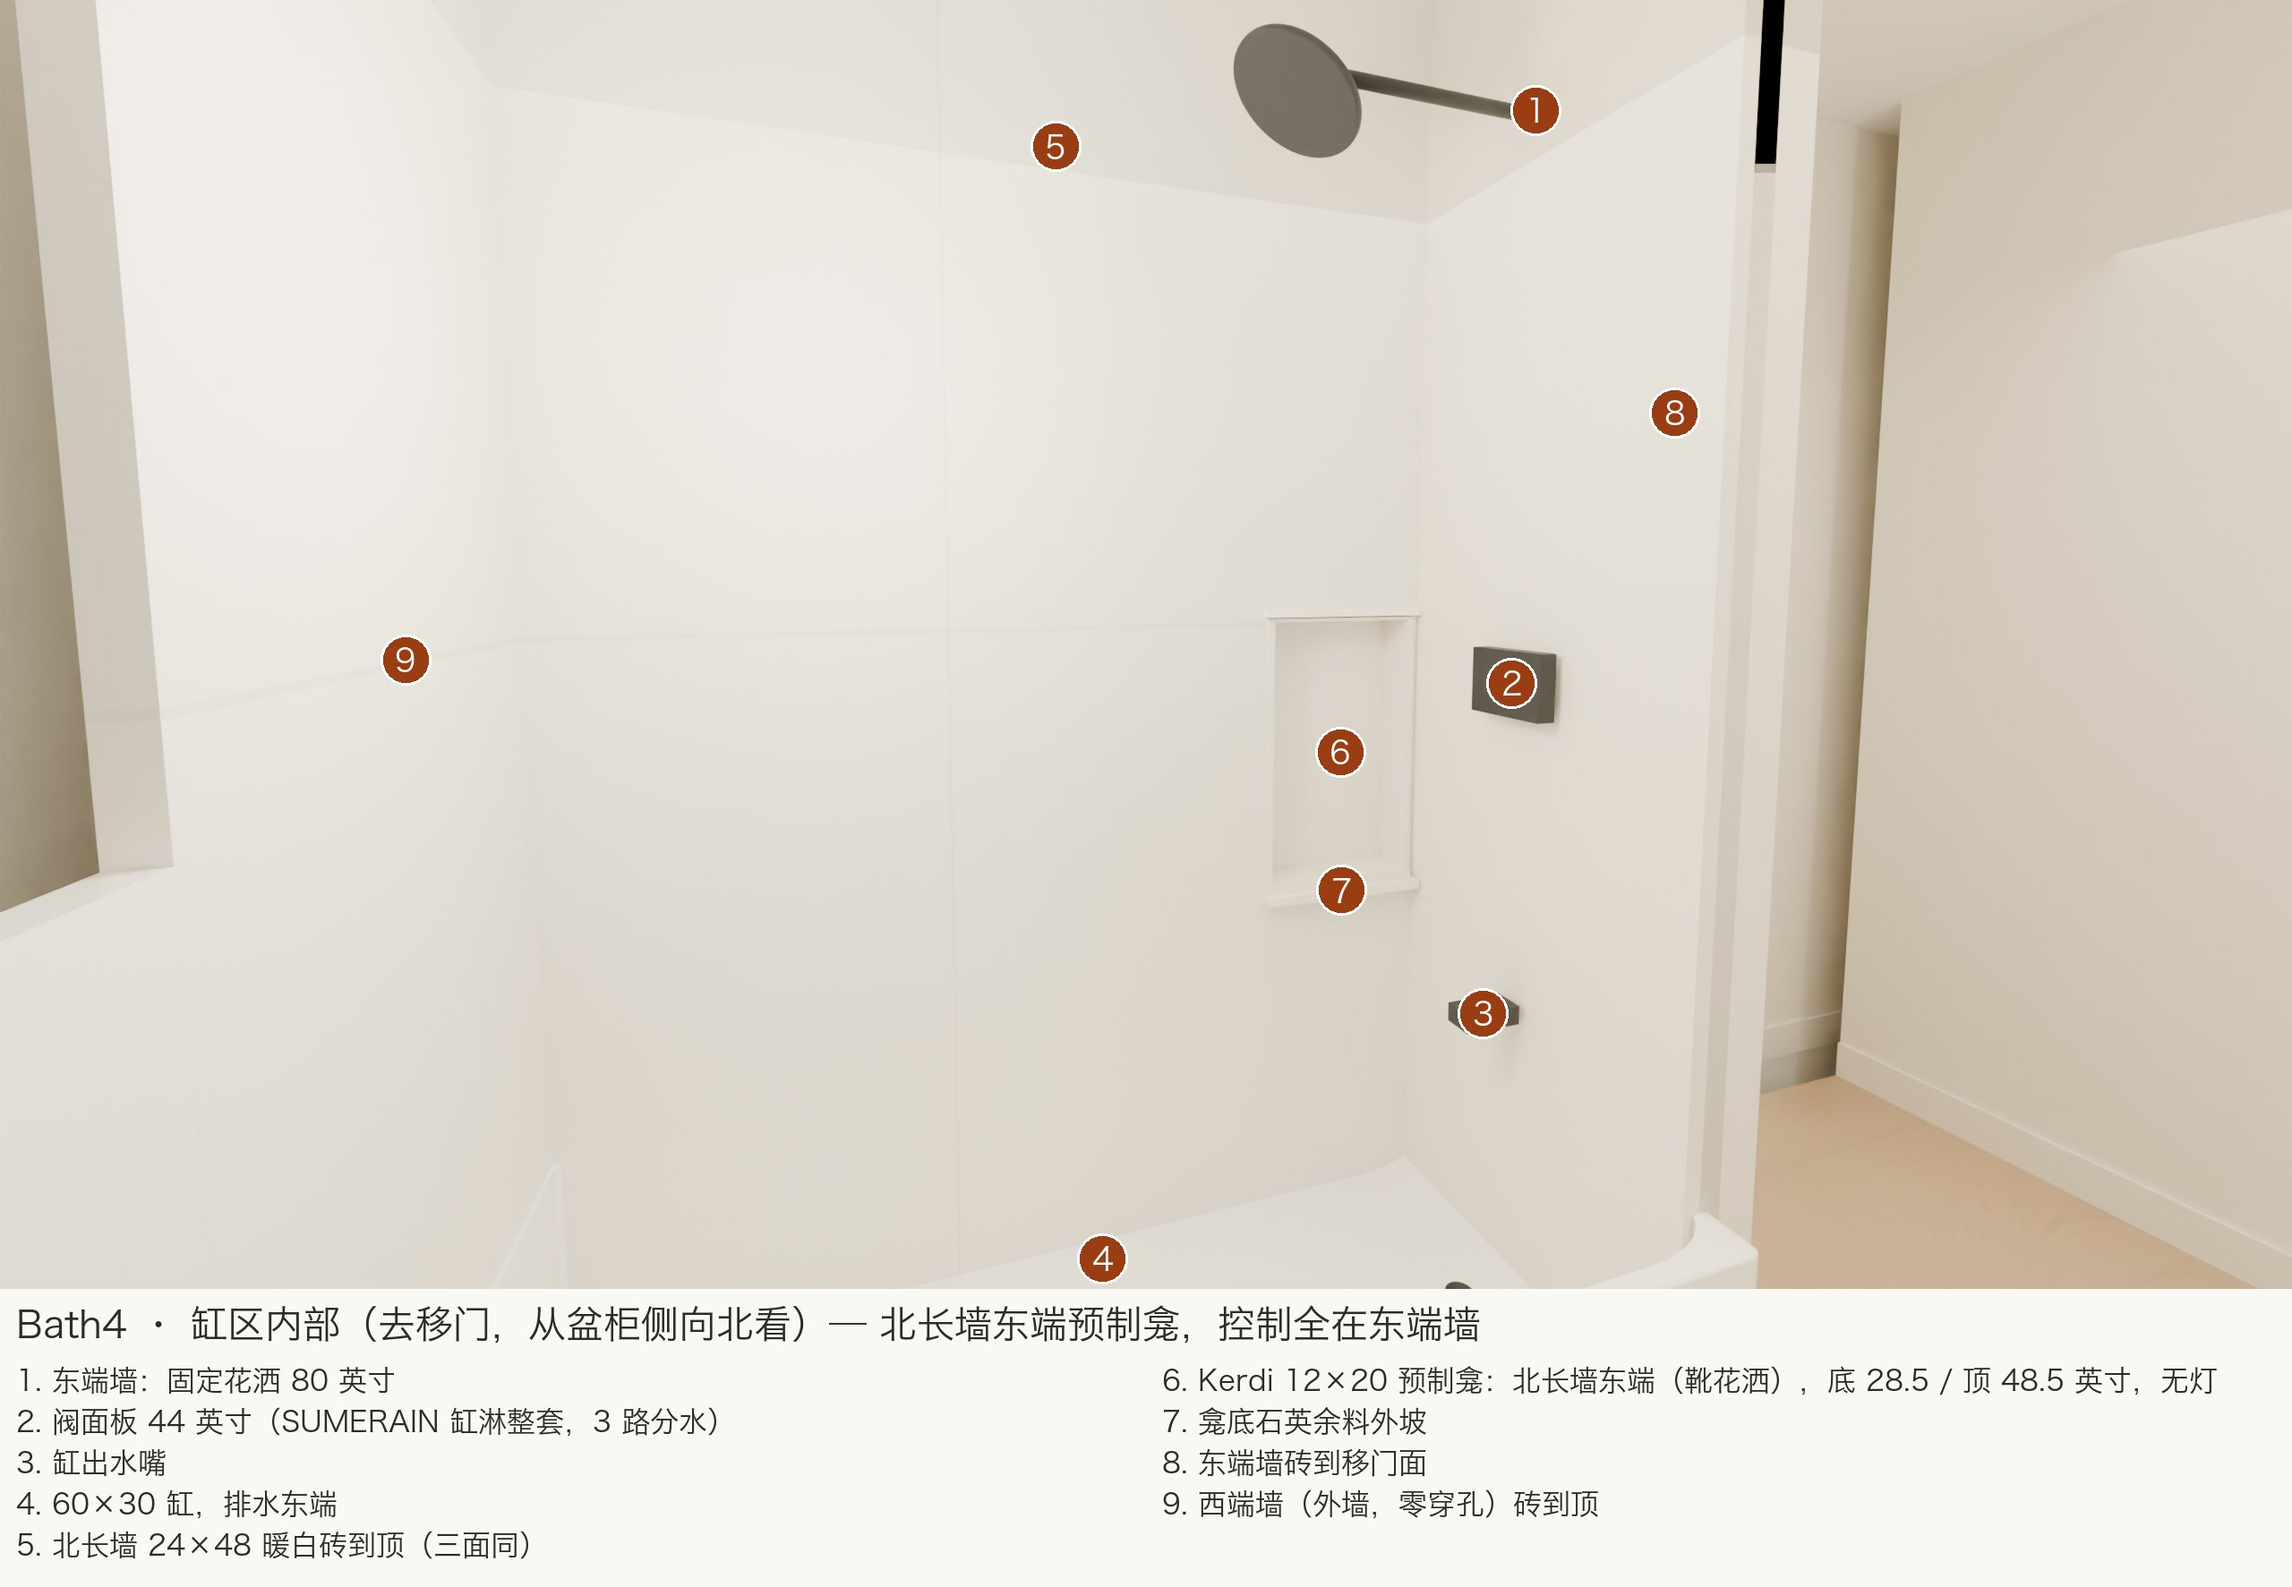
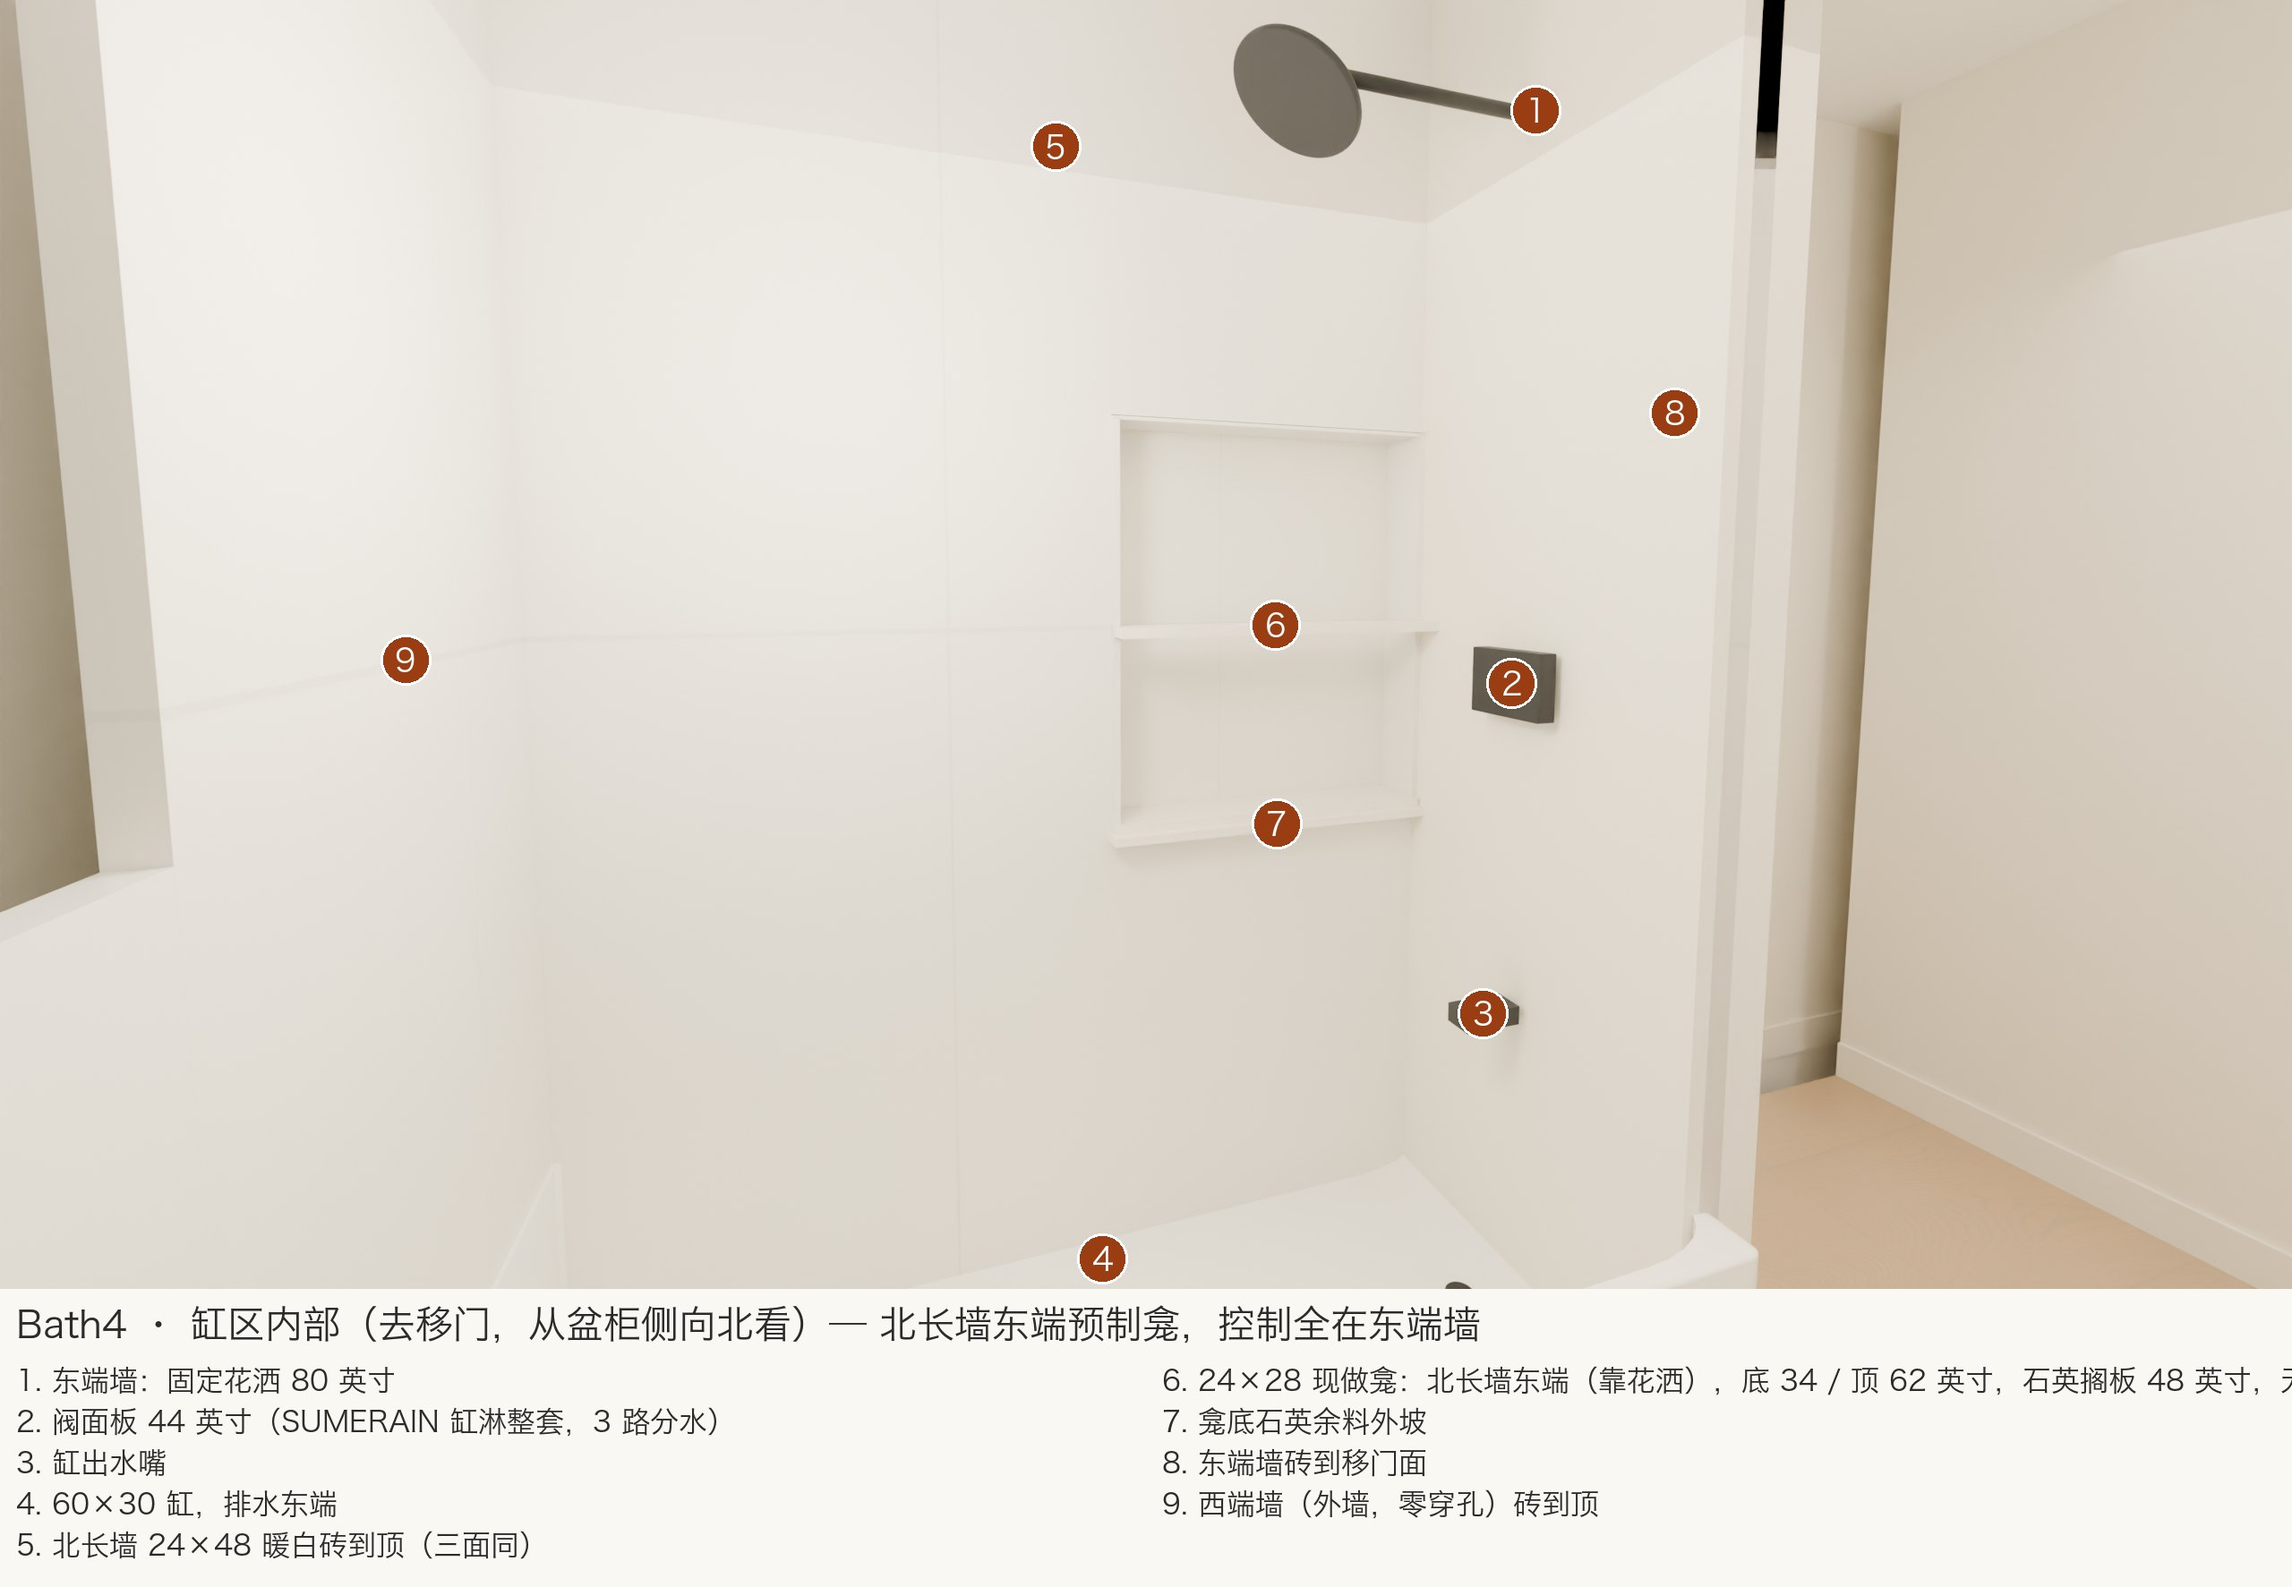
Bath4: niche enlarged to 24x28 site-built; renders updated

diff --git a/UAT.html b/UAT.html
@@ -151,12 +151,12 @@ li.own,span.own{color:#6b5d3a}li.own::marker{color:#c9b48a}
 <h3 id="s11">11 · Bath4</h3>
 <div class="fig plan"><figure><img src="uat/zone-12.jpg" alt=""><figcaption><b>Bath4 · 平面</b> — 本区位置与各房间名称；细节看效果图。</figcaption></figure></div>
 
-<div class="fig three"><figure><img src="uat/B4-overall.jpg" alt=""><figcaption><b>Bath4 · 整体（从盆柜角向北看，带移门）</b> — 北端 60×30 缸三面砖到顶，8mm 无框玻璃移门 + 哑黑顶轨 80"（活动扇东端，外侧自带毛巾杆 48"）；右下：东墙 24" 毛巾杆 50"（浴巾 + 洗脸毛巾）；透过玻璃：北长墙东端 Kerdi 12×20 预制龛（靴花洒），东端墙固定花洒 / 阀 44" / 缸出水嘴；右：东墙房门。</figcaption></figure><figure><img src="uat/B4-inside-anno.jpg" alt=""><figcaption><b>Bath4 · 缸区内部（去移门，从盆柜侧向北看，带标识）</b> — 北长墙东端 Kerdi 12×20 预制龛（靴花洒）（底 28½" 顶 48½"，龛底石英）；东端墙自上而下：固定花洒、阀 44"、缸出水嘴；缸排水东端。</figcaption></figure><figure><img src="uat/B4-vanity.jpg" alt=""><figcaption><b>Bath4 盆柜与马桶（从缸端向南看，去移门）</b> — 盆柜与马桶并排靴南墙、都面朝浴缸：东端 24" 白橡悬挂单盆柜（柜底 15"）+ 24×36 细黑框镜（44–80"）+ 24" 哑黑灯条坐镜顶；马桶在盆柜西侧，中心距西墙 17"、距盆柜 17½"；纸架在西墙砖面、马桶左手、卷心在马桶前沿前约 8"、26"；左上：西墙窗；右：东墙房门（内开，90° 限位）。</figcaption></figure></div>
+<div class="fig three"><figure><img src="uat/B4-overall.jpg" alt=""><figcaption><b>Bath4 · 整体（从盆柜角向北看，带移门）</b> — 北端 60×30 缸三面砖到顶，8mm 无框玻璃移门 + 哑黑顶轨 80"（活动扇东端，外侧自带毛巾杆 48"）；右下：东墙 24" 毛巾杆 50"（浴巾 + 洗脸毛巾）；透过玻璃：北长墙东端 24×28 龛 + 石英搁板（靠花洒），东端墙固定花洒 / 阀 44" / 缸出水嘴；右：东墙房门。</figcaption></figure><figure><img src="uat/B4-inside-anno.jpg" alt=""><figcaption><b>Bath4 · 缸区内部（去移门，从盆柜侧向北看，带标识）</b> — 北长墙东端 24×28 龛（靠花洒；底 34" 顶 62"，石英搁板落 48" 缝，龛底石英）；东端墙自上而下：固定花洒、阀 44"、缸出水嘴；缸排水东端。</figcaption></figure><figure><img src="uat/B4-vanity.jpg" alt=""><figcaption><b>Bath4 盆柜与马桶（从缸端向南看，去移门）</b> — 盆柜与马桶并排靴南墙、都面朝浴缸：东端 24" 白橡悬挂单盆柜（柜底 15"）+ 24×36 细黑框镜（44–80"）+ 24" 哑黑灯条坐镜顶；马桶在盆柜西侧，中心距西墙 17"、距盆柜 17½"；纸架在西墙砖面、马桶左手、卷心在马桶前沿前约 8"、26"；左上：西墙窗；右：东墙房门（内开，90° 限位）。</figcaption></figure></div>
 
 <div class="fig wide"><figure><img src="uat/tile-B4.jpg" alt=""><figcaption><b>Bath4 · 四面墙贴砖范围</b> — 缸区三面（北长墙 61" 整面 + 东、西端墙各 29" 到移门面）砖到顶，其余全高浴室级 PT-01；Kerdi 预制龛在北长墙东端（靴花洒）。</figcaption></figure></div>
 
 
-<h4>本区要点</h4><ul class="bul"><li><b>缸</b>：60×30 北端，排水东端；8mm 无框移门哑黑顶轨顶 80"，活动扇东端。</li><li><b>阀 / 花洒 / 出水嘴</b>：东端墙；过厅侧 12×12 隐框检修板 PT-01；西端外墙零穿孔。</li><li><b>壁龛</b>：Kerdi-Board 12×20 预制，北长墙东端（靴花洒），底 28½"。</li><li><b>盆柜 / 镜</b>：30" 悬挂单盆柜柜底 15"；24×36 细黑框镜挂 44–80" + 24" 哑黑灯条底 80"（坐镜顶）。</li><li><b>砖 / 灯</b>：缸背长墙、西墙整面 + 东墙到门套 24×48 到顶；盆柜墙与东墙门南段为全高干区墙面（见 §1 四卫干区墙面）；湿区筒灯 1 + 一般 1；排风 110 CFM。</li></ul>
+<h4>本区要点</h4><ul class="bul"><li><b>缸</b>：60×30 北端，排水东端；8mm 无框移门哑黑顶轨顶 80"，活动扇东端。</li><li><b>阀 / 花洒 / 出水嘴</b>：东端墙；过厅侧 12×12 隐框检修板 PT-01；西端外墙零穿孔。</li><li><b>壁龛</b>：24×28 现做，北长墙东端（靠花洒），底 34" 顶 62"，石英搁板 48"。</li><li><b>盆柜 / 镜</b>：30" 悬挂单盆柜柜底 15"；24×36 细黑框镜挂 44–80" + 24" 哑黑灯条底 80"（坐镜顶）。</li><li><b>砖 / 灯</b>：缸背长墙、西墙整面 + 东墙到门套 24×48 到顶；盆柜墙与东墙门南段为全高干区墙面（见 §1 四卫干区墙面）；湿区筒灯 1 + 一般 1；排风 110 CFM。</li></ul>
 
 
 

diff --git a/index.html b/index.html
@@ -151,12 +151,12 @@ li.own,span.own{color:#6b5d3a}li.own::marker{color:#c9b48a}
 <h3 id="s11">11 · Bath4</h3>
 <div class="fig plan"><figure><img src="uat/zone-12.jpg" alt=""><figcaption><b>Bath4 · 平面</b> — 本区位置与各房间名称；细节看效果图。</figcaption></figure></div>
 
-<div class="fig three"><figure><img src="uat/B4-overall.jpg" alt=""><figcaption><b>Bath4 · 整体（从盆柜角向北看，带移门）</b> — 北端 60×30 缸三面砖到顶，8mm 无框玻璃移门 + 哑黑顶轨 80"（活动扇东端，外侧自带毛巾杆 48"）；右下：东墙 24" 毛巾杆 50"（浴巾 + 洗脸毛巾）；透过玻璃：北长墙东端 Kerdi 12×20 预制龛（靴花洒），东端墙固定花洒 / 阀 44" / 缸出水嘴；右：东墙房门。</figcaption></figure><figure><img src="uat/B4-inside-anno.jpg" alt=""><figcaption><b>Bath4 · 缸区内部（去移门，从盆柜侧向北看，带标识）</b> — 北长墙东端 Kerdi 12×20 预制龛（靴花洒）（底 28½" 顶 48½"，龛底石英）；东端墙自上而下：固定花洒、阀 44"、缸出水嘴；缸排水东端。</figcaption></figure><figure><img src="uat/B4-vanity.jpg" alt=""><figcaption><b>Bath4 盆柜与马桶（从缸端向南看，去移门）</b> — 盆柜与马桶并排靴南墙、都面朝浴缸：东端 24" 白橡悬挂单盆柜（柜底 15"）+ 24×36 细黑框镜（44–80"）+ 24" 哑黑灯条坐镜顶；马桶在盆柜西侧，中心距西墙 17"、距盆柜 17½"；纸架在西墙砖面、马桶左手、卷心在马桶前沿前约 8"、26"；左上：西墙窗；右：东墙房门（内开，90° 限位）。</figcaption></figure></div>
+<div class="fig three"><figure><img src="uat/B4-overall.jpg" alt=""><figcaption><b>Bath4 · 整体（从盆柜角向北看，带移门）</b> — 北端 60×30 缸三面砖到顶，8mm 无框玻璃移门 + 哑黑顶轨 80"（活动扇东端，外侧自带毛巾杆 48"）；右下：东墙 24" 毛巾杆 50"（浴巾 + 洗脸毛巾）；透过玻璃：北长墙东端 24×28 龛 + 石英搁板（靠花洒），东端墙固定花洒 / 阀 44" / 缸出水嘴；右：东墙房门。</figcaption></figure><figure><img src="uat/B4-inside-anno.jpg" alt=""><figcaption><b>Bath4 · 缸区内部（去移门，从盆柜侧向北看，带标识）</b> — 北长墙东端 24×28 龛（靠花洒；底 34" 顶 62"，石英搁板落 48" 缝，龛底石英）；东端墙自上而下：固定花洒、阀 44"、缸出水嘴；缸排水东端。</figcaption></figure><figure><img src="uat/B4-vanity.jpg" alt=""><figcaption><b>Bath4 盆柜与马桶（从缸端向南看，去移门）</b> — 盆柜与马桶并排靴南墙、都面朝浴缸：东端 24" 白橡悬挂单盆柜（柜底 15"）+ 24×36 细黑框镜（44–80"）+ 24" 哑黑灯条坐镜顶；马桶在盆柜西侧，中心距西墙 17"、距盆柜 17½"；纸架在西墙砖面、马桶左手、卷心在马桶前沿前约 8"、26"；左上：西墙窗；右：东墙房门（内开，90° 限位）。</figcaption></figure></div>
 
 <div class="fig wide"><figure><img src="uat/tile-B4.jpg" alt=""><figcaption><b>Bath4 · 四面墙贴砖范围</b> — 缸区三面（北长墙 61" 整面 + 东、西端墙各 29" 到移门面）砖到顶，其余全高浴室级 PT-01；Kerdi 预制龛在北长墙东端（靴花洒）。</figcaption></figure></div>
 
 
-<h4>本区要点</h4><ul class="bul"><li><b>缸</b>：60×30 北端，排水东端；8mm 无框移门哑黑顶轨顶 80"，活动扇东端。</li><li><b>阀 / 花洒 / 出水嘴</b>：东端墙；过厅侧 12×12 隐框检修板 PT-01；西端外墙零穿孔。</li><li><b>壁龛</b>：Kerdi-Board 12×20 预制，北长墙东端（靴花洒），底 28½"。</li><li><b>盆柜 / 镜</b>：30" 悬挂单盆柜柜底 15"；24×36 细黑框镜挂 44–80" + 24" 哑黑灯条底 80"（坐镜顶）。</li><li><b>砖 / 灯</b>：缸背长墙、西墙整面 + 东墙到门套 24×48 到顶；盆柜墙与东墙门南段为全高干区墙面（见 §1 四卫干区墙面）；湿区筒灯 1 + 一般 1；排风 110 CFM。</li></ul>
+<h4>本区要点</h4><ul class="bul"><li><b>缸</b>：60×30 北端，排水东端；8mm 无框移门哑黑顶轨顶 80"，活动扇东端。</li><li><b>阀 / 花洒 / 出水嘴</b>：东端墙；过厅侧 12×12 隐框检修板 PT-01；西端外墙零穿孔。</li><li><b>壁龛</b>：24×28 现做，北长墙东端（靠花洒），底 34" 顶 62"，石英搁板 48"。</li><li><b>盆柜 / 镜</b>：30" 悬挂单盆柜柜底 15"；24×36 细黑框镜挂 44–80" + 24" 哑黑灯条底 80"（坐镜顶）。</li><li><b>砖 / 灯</b>：缸背长墙、西墙整面 + 东墙到门套 24×48 到顶；盆柜墙与东墙门南段为全高干区墙面（见 §1 四卫干区墙面）；湿区筒灯 1 + 一般 1；排风 110 CFM。</li></ul>
 
 
 
